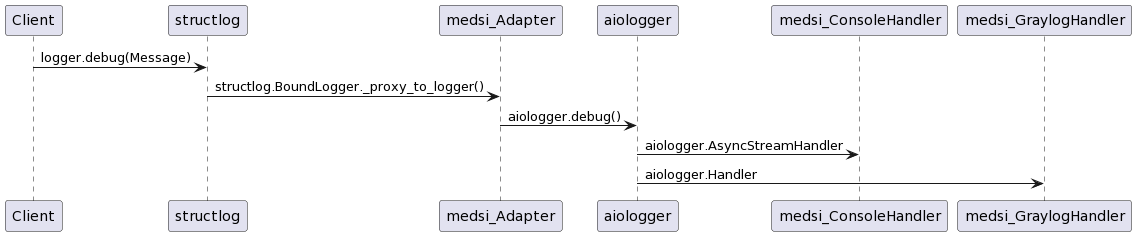
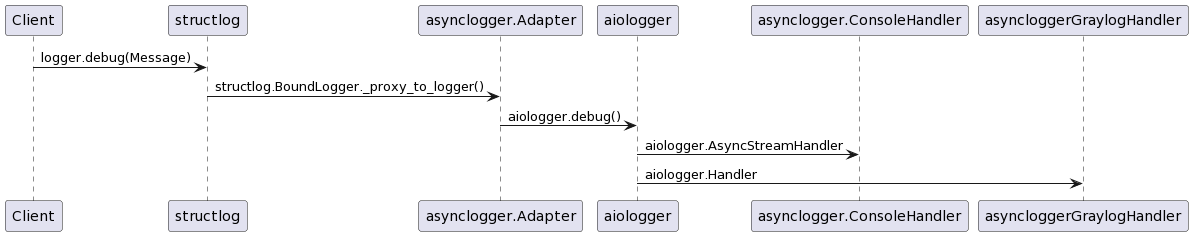
lib

diff --git a/README.md b/README.md
@@ -9,10 +9,10 @@
 ```
 @startuml
 Client -> structlog : logger.debug(Message)
-structlog -> medsi_Adapter : structlog.BoundLogger._proxy_to_logger()
-medsi_Adapter -> aiologger : aiologger.debug()
-aiologger -> medsi_ConsoleHandler : aiologger.AsyncStreamHandler
-aiologger -> medsi_GraylogHandler : aiologger.Handler
+structlog -> asynclogger.Adapter : structlog.BoundLogger._proxy_to_logger()
+asynclogger.Adapter -> aiologger : aiologger.debug()
+aiologger -> asynclogger.ConsoleHandler : aiologger.AsyncStreamHandler
+aiologger -> asyncloggerGraylogHandler : aiologger.Handler
 @enduml
 ```
 # How to use?
@@ -31,12 +31,12 @@ LOGGER_GRAYLOG_PORT=12201
 
 ### Connecting in project
 ```
-from medsi_logging.logger import add_handler
-from medsi_logging.logger import console_handler
-from medsi_logging.logger import get_logger
-from medsi_logging.logger import graylog_handler
+from asynclogger import add_handler
+from asynclogger import console_handler
+from asynclogger import get_logger
+from asynclogger import graylog_handler
 
-from app.core import config
+from ... import config
 
 if config.LOGGER_CONSOLE:
     add_handler(console_handler(level=config.LOGGER_CONSOLE_LEVEL))
@@ -60,7 +60,7 @@ await logger.debug("Debug")
 ### feature ```Field```
 
 ```
-from medsi_logging.fields import Field
+from asynclogger.fields import Field
 
 logger = get_logger()
 
@@ -70,7 +70,7 @@ await logger.debug("Debug", Field.levelname("DEBUG"))
 ### Displaying specific fields
 
 ```
-from medsi_logging.fields import Field
+from asynclogger.fields import Field
 
 add_handler(
         console_handler(
@@ -89,7 +89,7 @@ await logger.debug("Debug", include="Include Field", other="Other")
 
 #### Priority override
 ```
-from medsi_logging.fields import FIELDS_SETTINGS
+from asynclogger.fields import FIELDS_SETTINGS, Field
 
 await logger.debug("Debug")
  >>> 2023-06-09T08:42:14.447572 DEBUG: Debug
@@ -103,7 +103,7 @@ await logger.debug("Debug")
 
 #### Format override
 ```
-from medsi_logging.fields import FIELDS_SETTINGS
+from asynclogger.fields import FIELDS_SETTINGS, Field
 
 await logger.debug("Debug")
  >>> 2023-06-09T08:42:14.447572 DEBUG: Debug
